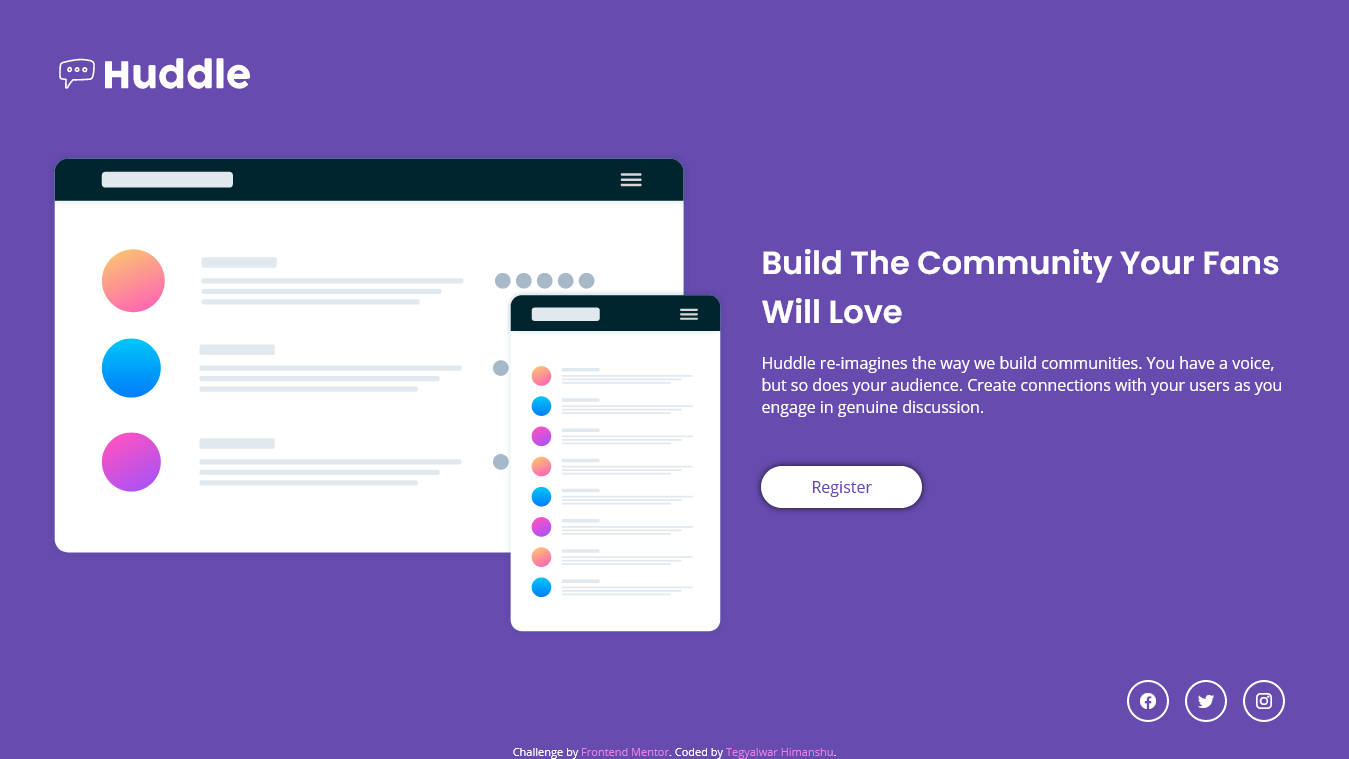
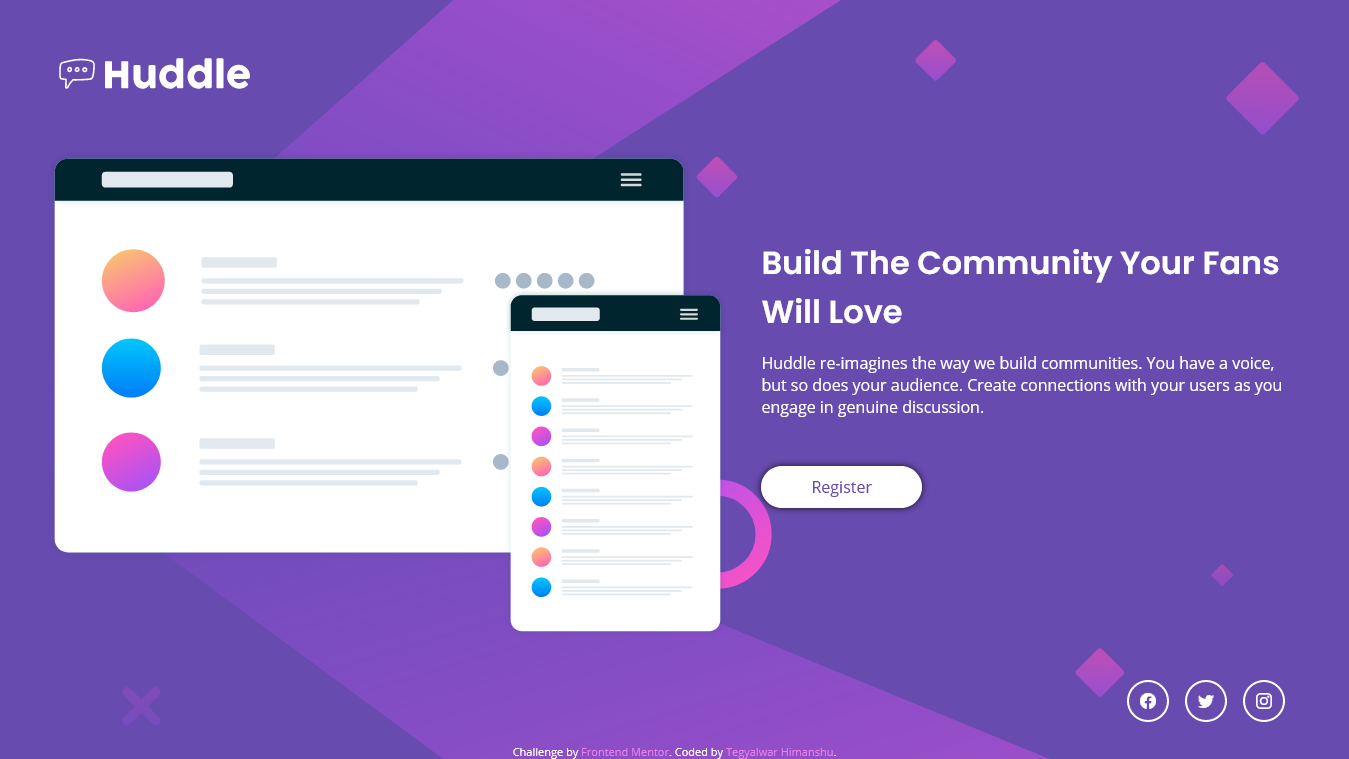
Update bg-image location and Add new Screenshot

diff --git a/huddle-landing-page-with-single-intro-section/scss/style.scss b/huddle-landing-page-with-single-intro-section/scss/style.scss
@@ -17,7 +17,7 @@ $soft-magenta: #E882E8; // hsl(300, 69%, 71%)
 
 body {
     min-height: 100vh;
-    background: url(/images/bg-mobile.svg) no-repeat top center/contain;
+    background: url(../images/bg-mobile.svg) no-repeat top center/contain;
     background-color: $violet;
     font-family: $open-sans;
 }
@@ -104,7 +104,7 @@ main {
 
     body {
         min-height: 100vh;
-        background: url(/images/bg-desktop.svg) no-repeat top center/contain;
+        background: url(../images/bg-desktop.svg) no-repeat top center/contain;
         background-color: $violet;
         font-family: $open-sans;
     }

diff --git a/huddle-landing-page-with-single-intro-section/css/style.css b/huddle-landing-page-with-single-intro-section/css/style.css
@@ -8,7 +8,7 @@
 
 body {
   min-height: 100vh;
-  background: url(/images/bg-mobile.svg) no-repeat top center/contain;
+  background: url(../images/bg-mobile.svg) no-repeat top center/contain;
   background-color: #674BAF;
   font-family: "Open Sans", sans-serif;
 }
@@ -90,7 +90,7 @@ main img {
 @media (min-width: 900px) {
   body {
     min-height: 100vh;
-    background: url(/images/bg-desktop.svg) no-repeat top center/contain;
+    background: url(../images/bg-desktop.svg) no-repeat top center/contain;
     background-color: #674BAF;
     font-family: "Open Sans", sans-serif;
   }
